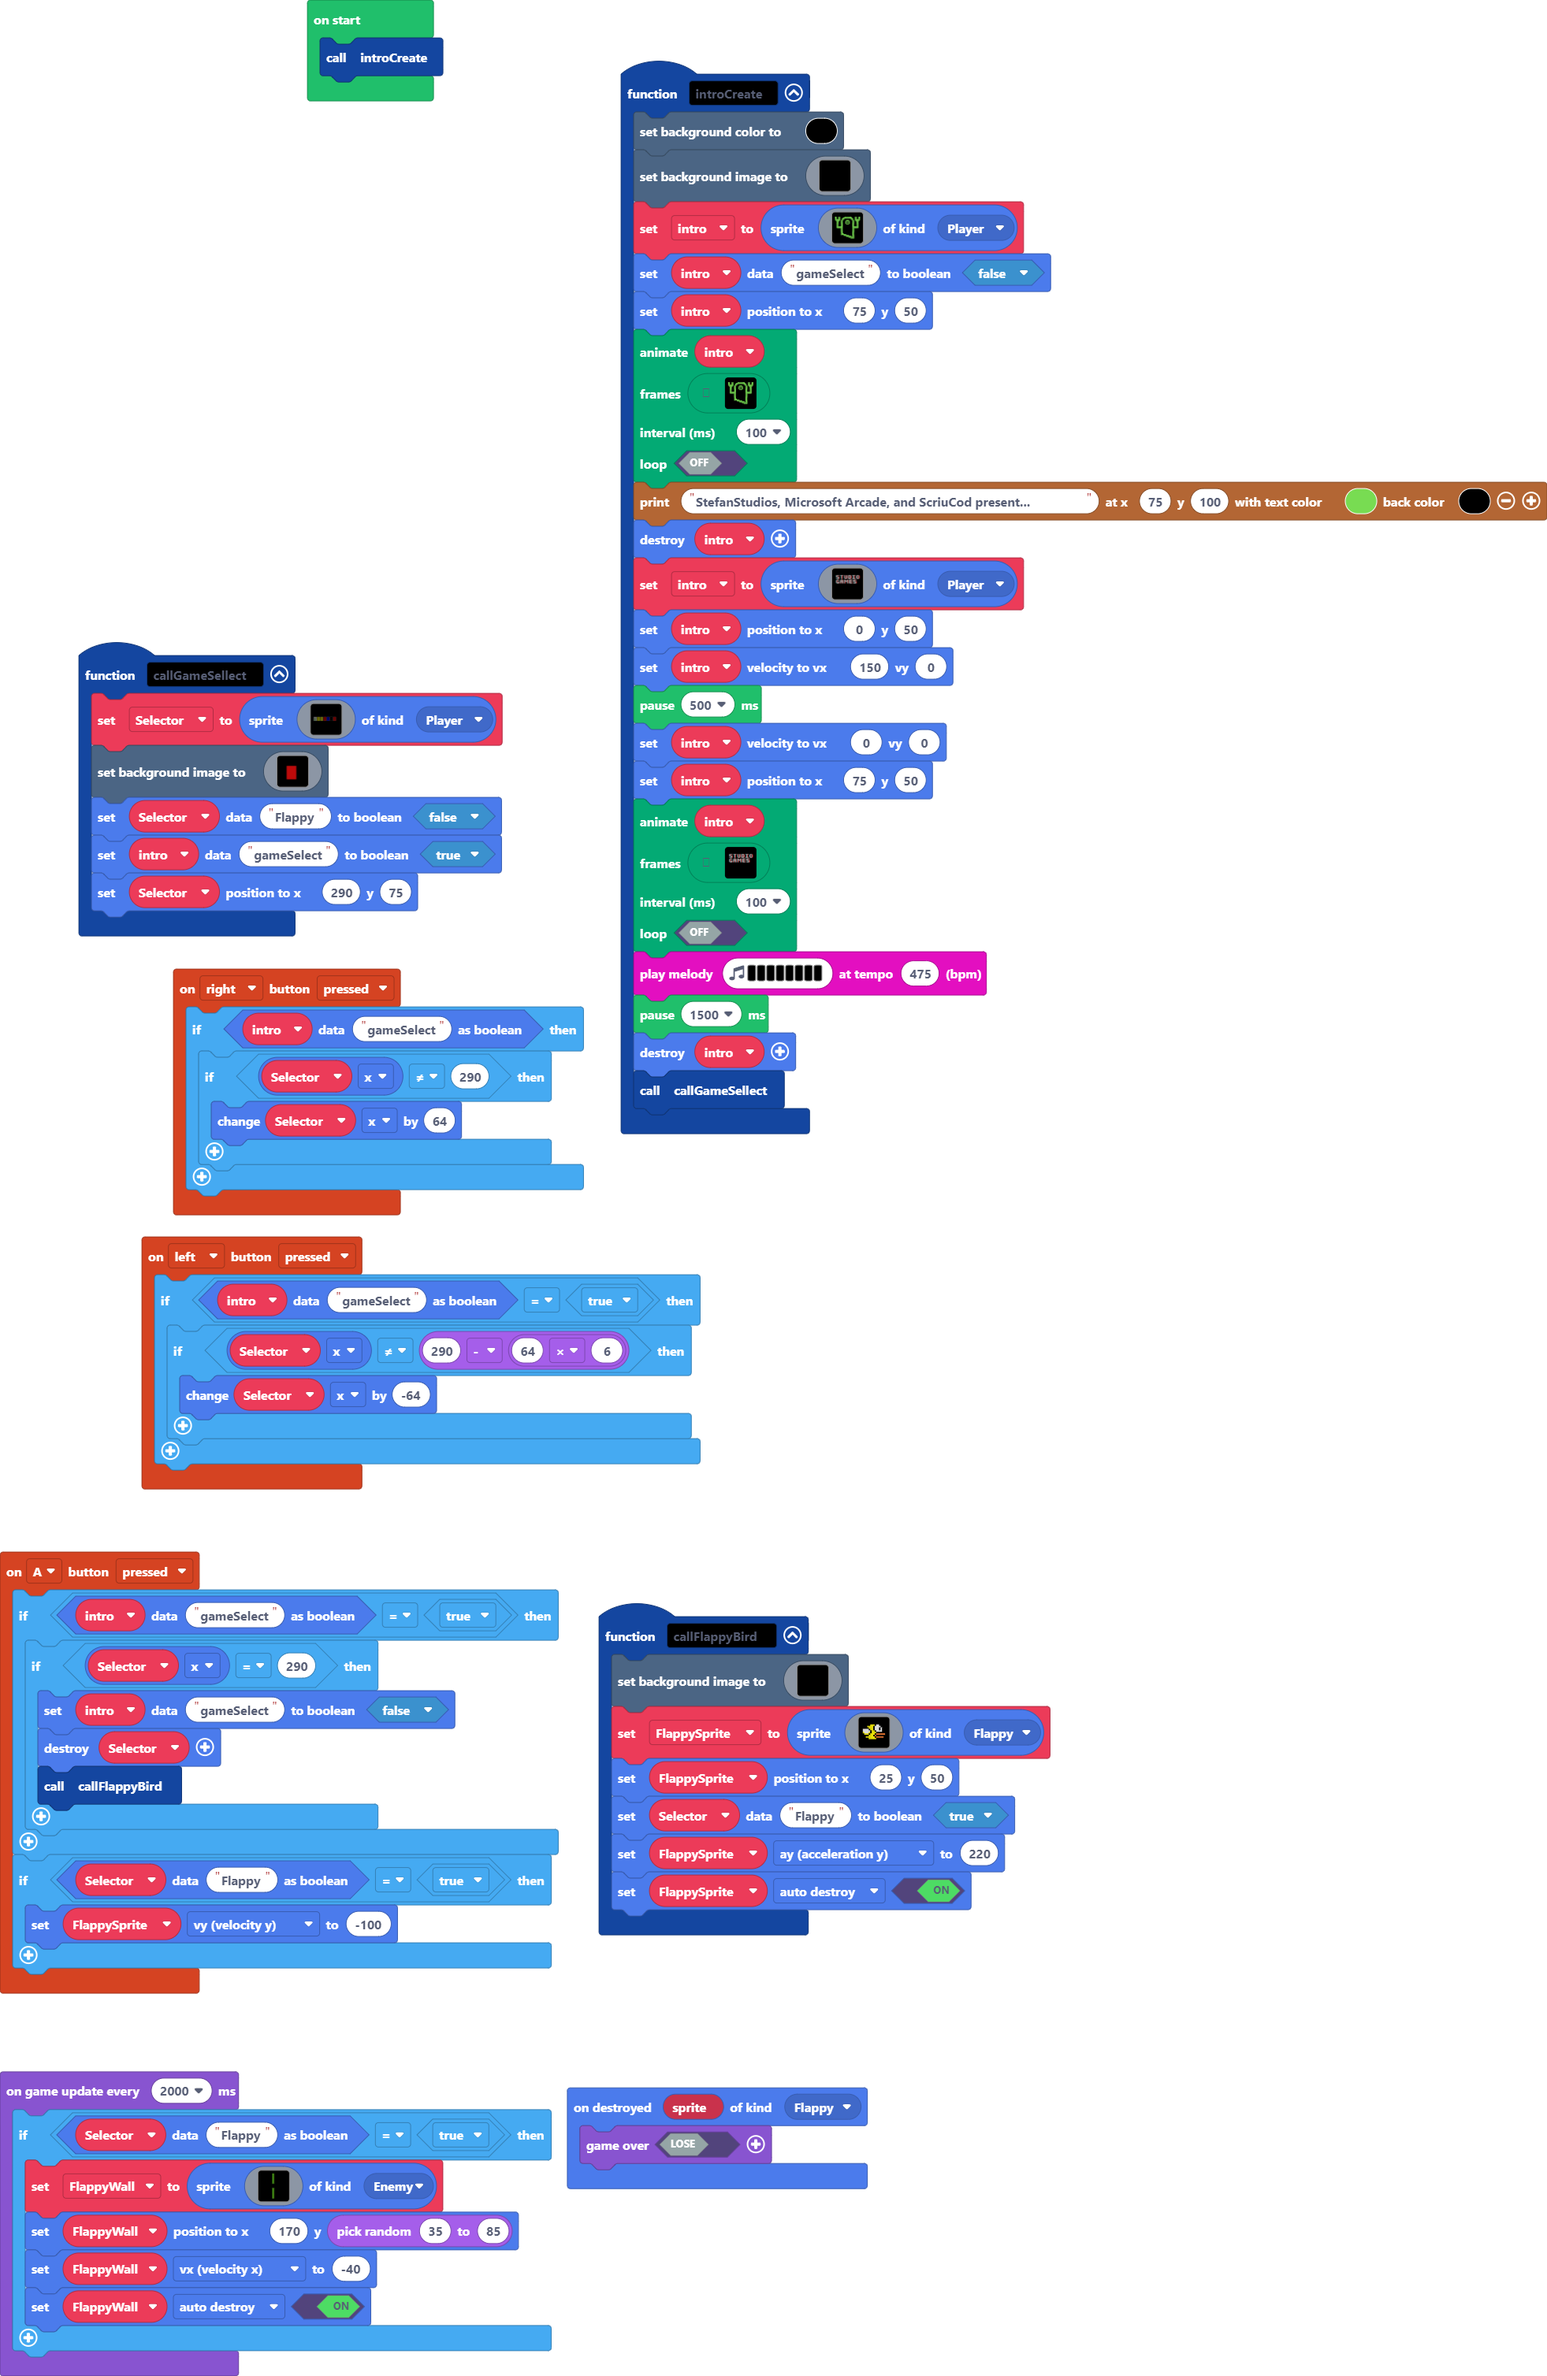
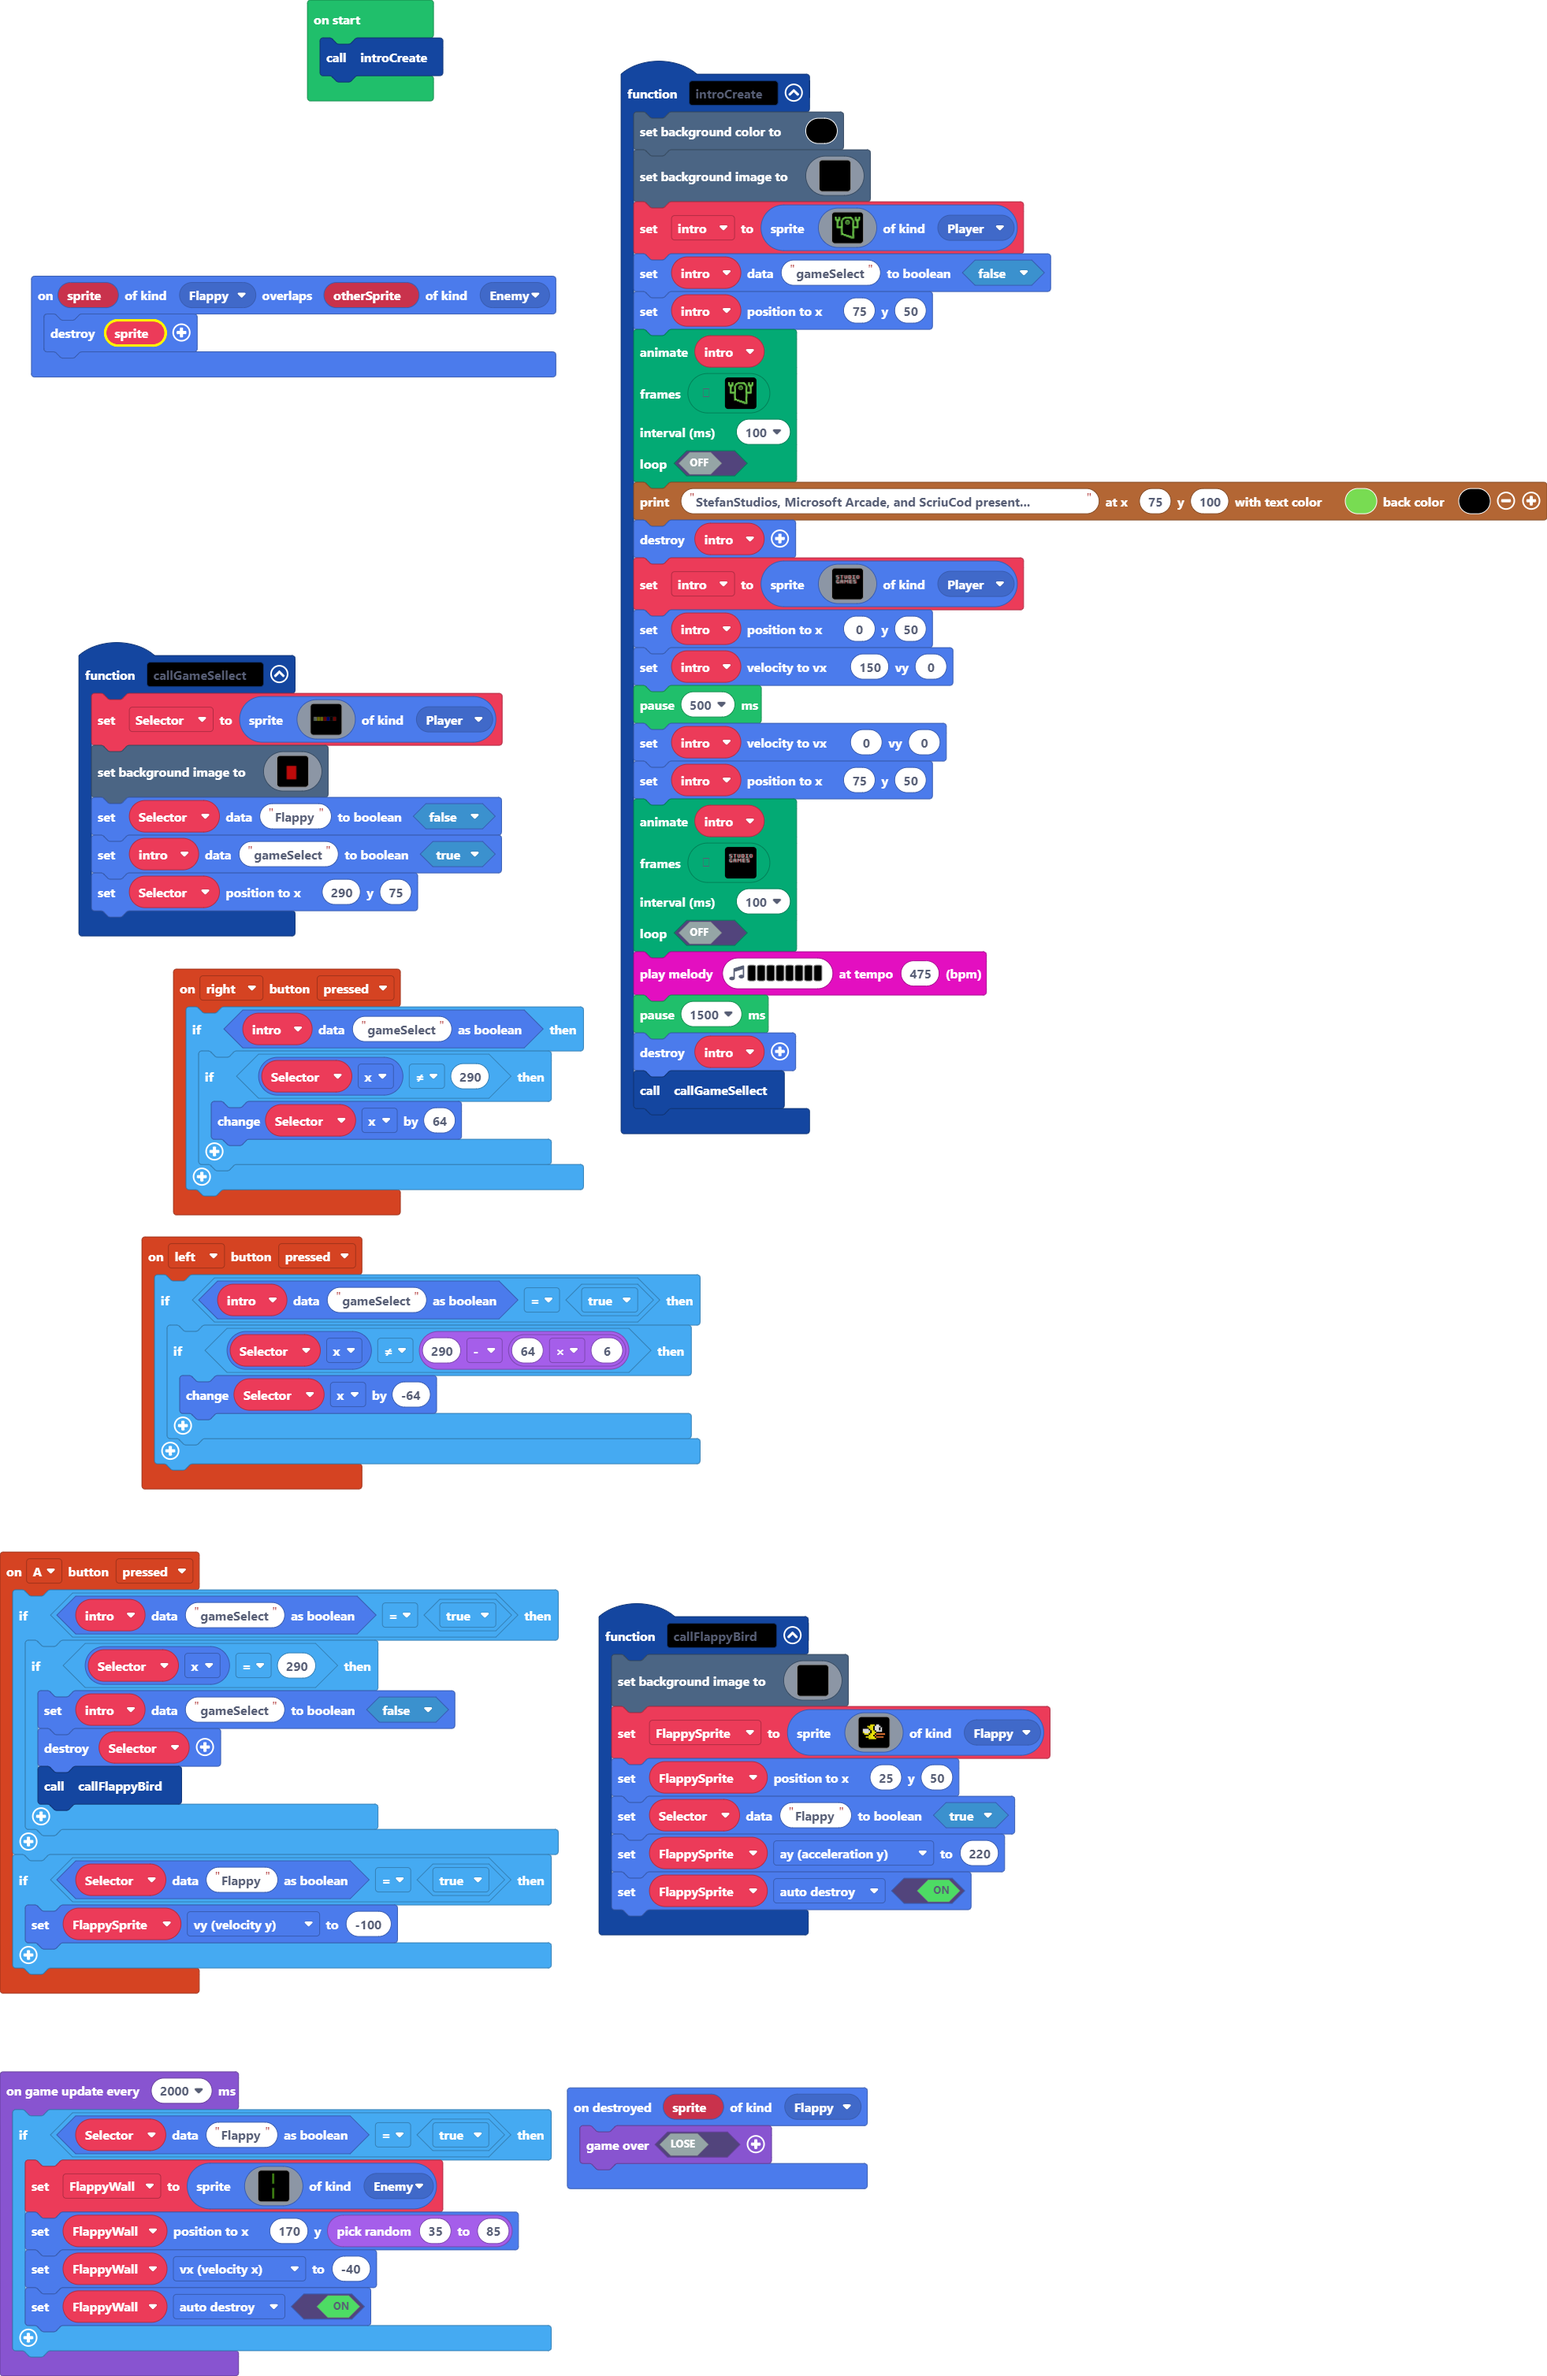
Flappy Bird will now die when he hits the pole.

Changed region(s): [[0.0, 0.0935, 0.3729, 0.1558]]

diff --git a/main.ts b/main.ts
@@ -1573,6 +1573,9 @@ function callGameSellect () {
     sprites.setDataBoolean(intro, "gameSelect", true)
     Selector.setPosition(290, 75)
 }
+sprites.onOverlap(SpriteKind.Flappy, SpriteKind.Enemy, function (sprite, otherSprite) {
+    sprite.destroy()
+})
 let FlappyWall: Sprite = null
 let FlappySprite: Sprite = null
 let Selector: Sprite = null
